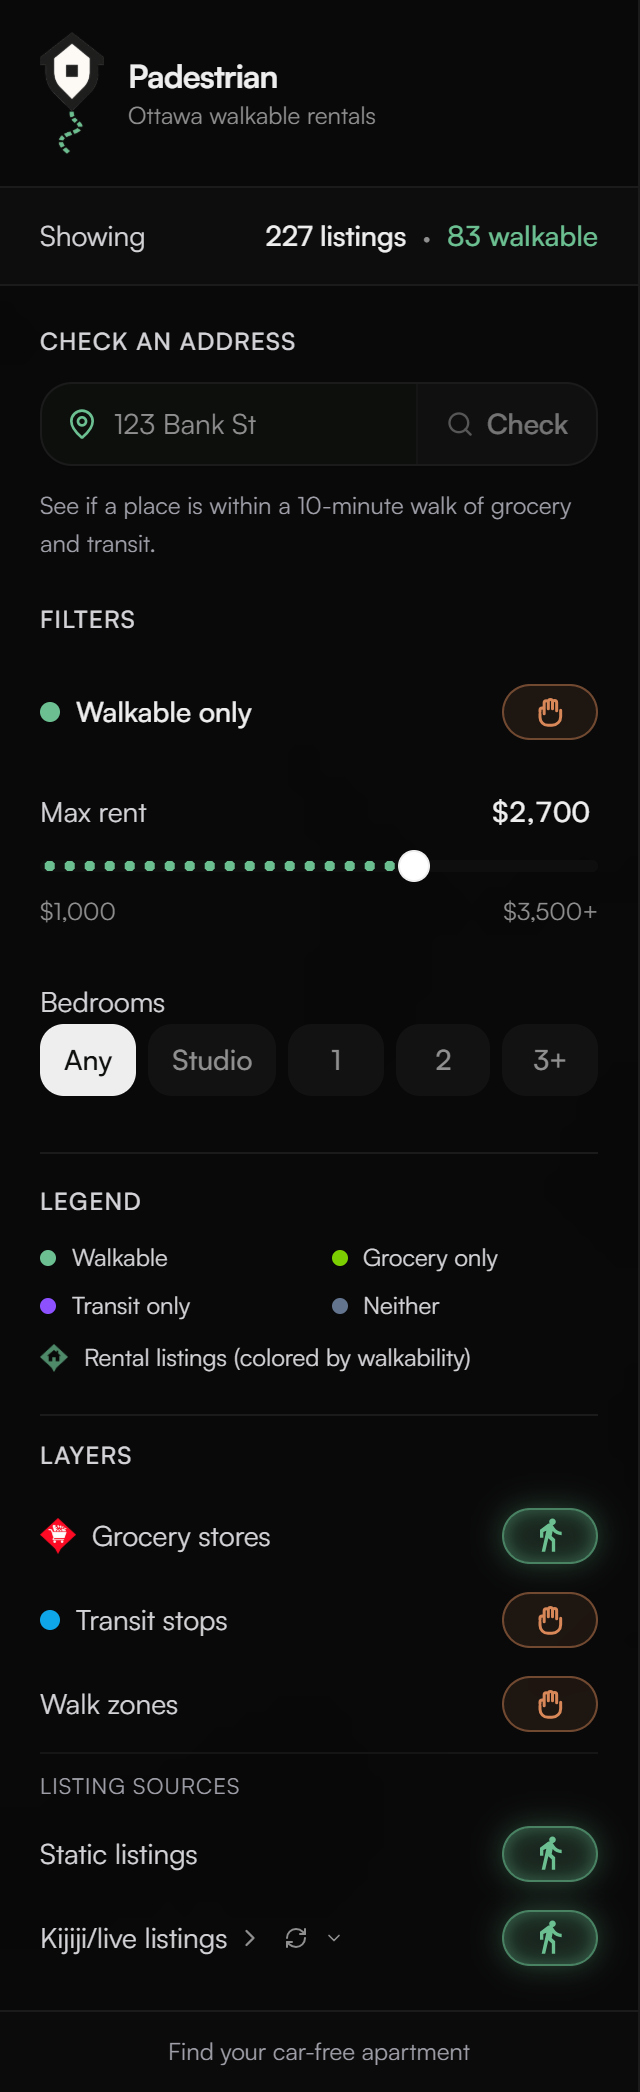
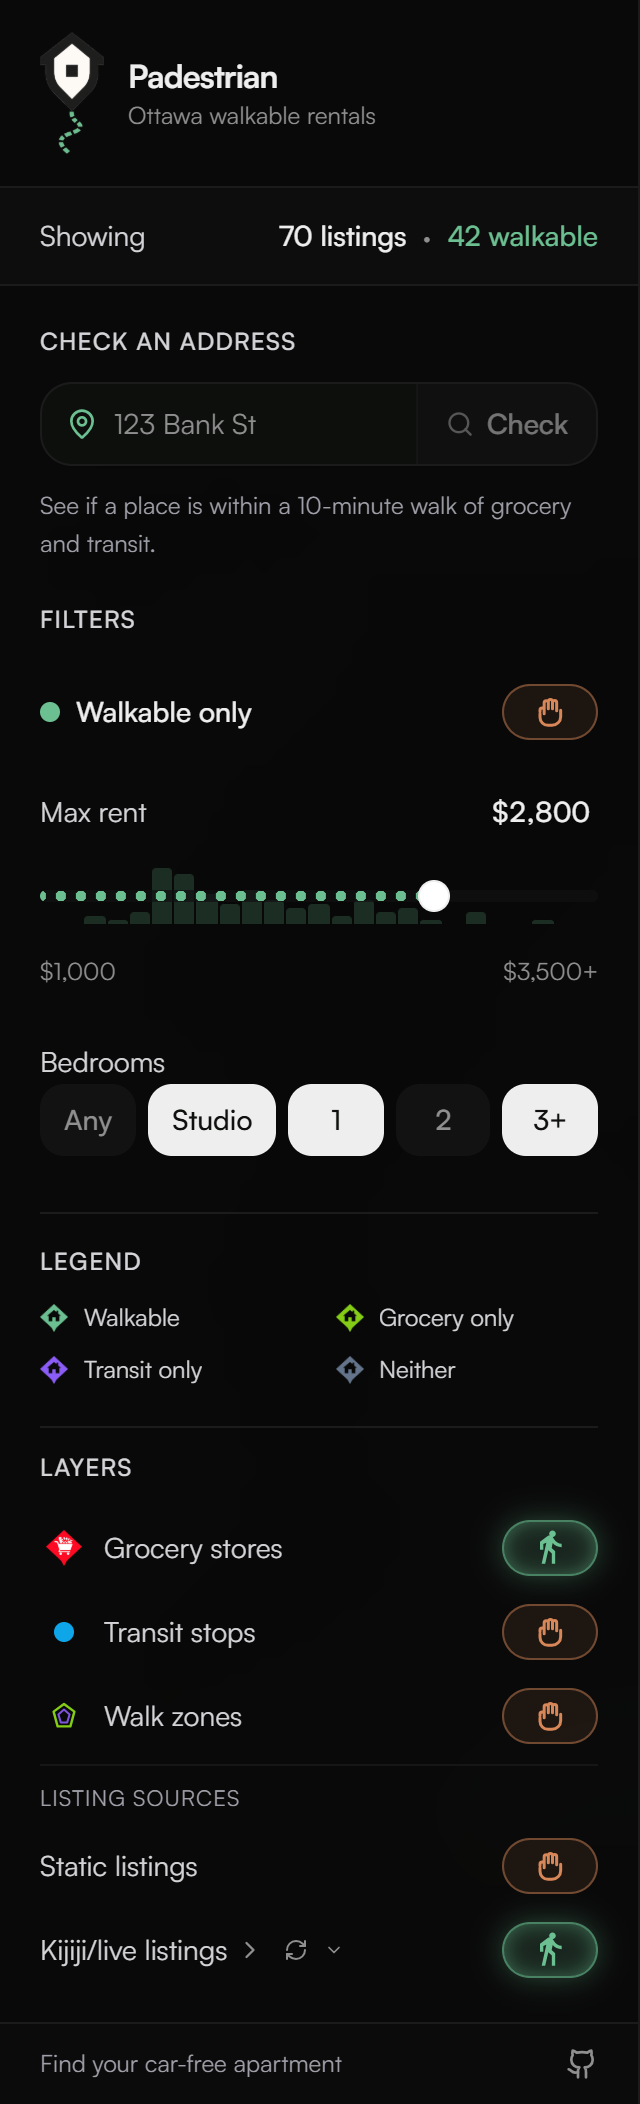
push

diff --git a/components/map/filter-panel.tsx b/components/map/filter-panel.tsx
@@ -85,6 +85,41 @@ const bedOptions = [
   { value: "3", label: "3+" },
 ]
 
+const MIN_RENT = 1000
+const MAX_RENT = 3500
+const RENT_STEP = 50
+const RENT_HISTOGRAM_BINS = 25
+
+function buildRentHistogram(
+  fc: FeatureCollection | null,
+  layers: { staticListings: boolean; kijijiListings: boolean },
+): number[] {
+  const bins = Array(RENT_HISTOGRAM_BINS).fill(0)
+  if (!fc?.features?.length) return bins
+
+  const binWidth = (MAX_RENT - MIN_RENT) / RENT_HISTOGRAM_BINS
+
+  for (const feature of fc.features) {
+    const p = feature.properties ?? {}
+    if (String(p.source ?? "").toLowerCase() === "custom") continue
+    if (p.rent_cad == null) continue
+
+    const isKijiji = String(p.source ?? "").toLowerCase() === "kijiji"
+    if (isKijiji && !layers.kijijiListings) continue
+    if (!isKijiji && !layers.staticListings) continue
+
+    const rent = Number(p.rent_cad)
+    if (!Number.isFinite(rent) || rent < MIN_RENT) continue
+
+    const clamped = Math.min(rent, MAX_RENT)
+    let idx = Math.floor((clamped - MIN_RENT) / binWidth)
+    if (idx >= RENT_HISTOGRAM_BINS) idx = RENT_HISTOGRAM_BINS - 1
+    bins[idx]++
+  }
+
+  return bins
+}
+
 export function FilterPanel({
   filters,
   onFiltersChange,
@@ -213,9 +248,19 @@ export function FilterPanel({
     [listingsData, filters, layers.staticListings, layers.kijijiListings],
   )
 
-  const MIN_RENT = 1000
-  const MAX_RENT = 3500
-  const RENT_STEP = 50
+  const rentHistogram = useMemo(
+    () =>
+      buildRentHistogram(listingsData, {
+        staticListings: layers.staticListings,
+        kijijiListings: layers.kijijiListings,
+      }),
+    [listingsData, layers.staticListings, layers.kijijiListings],
+  )
+
+  const rentHistogramMax = useMemo(
+    () => Math.max(...rentHistogram, 1),
+    [rentHistogram],
+  )
 
   const clampRent = (value: number) =>
     Math.min(MAX_RENT, Math.max(MIN_RENT, value))
@@ -435,16 +480,33 @@ export function FilterPanel({
                     </button>
                   )}
                 </div>
-                <Slider
-                  value={[filters.maxRent]}
-                  min={MIN_RENT}
-                  max={MAX_RENT}
-                  step={RENT_STEP}
-                  onValueChange={([value]) =>
-                    onFiltersChange({ ...filters, maxRent: clampRent(value) })
-                  }
-                  className="w-full"
-                />
+                <div className="relative h-9 flex items-center">
+                  <div
+                    className="pointer-events-none absolute inset-x-0 flex h-7 items-end gap-px"
+                    aria-hidden
+                  >
+                    {rentHistogram.map((count, i) => (
+                      <div
+                        key={i}
+                        className="flex-1 rounded-t-[2px] bg-[#6BBF91]/25 dark:bg-[#6BBF91]/20"
+                        style={{
+                          height: `${(count / rentHistogramMax) * 100}%`,
+                          minHeight: count > 0 ? 2 : 0,
+                        }}
+                      />
+                    ))}
+                  </div>
+                  <Slider
+                    value={[filters.maxRent]}
+                    min={MIN_RENT}
+                    max={MAX_RENT}
+                    step={RENT_STEP}
+                    onValueChange={([value]) =>
+                      onFiltersChange({ ...filters, maxRent: clampRent(value) })
+                    }
+                    className="relative z-10 w-full"
+                  />
+                </div>
                 <div className="flex justify-between text-xs text-muted-foreground">
                   <span>$1,000</span>
                   <span>$3,500+</span>